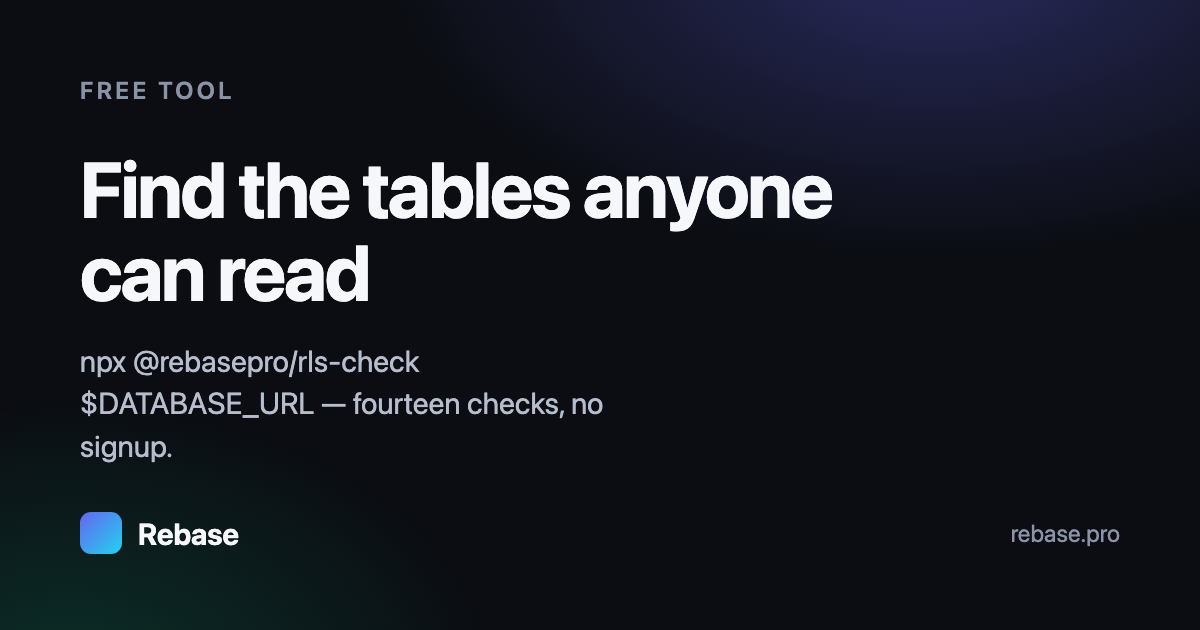
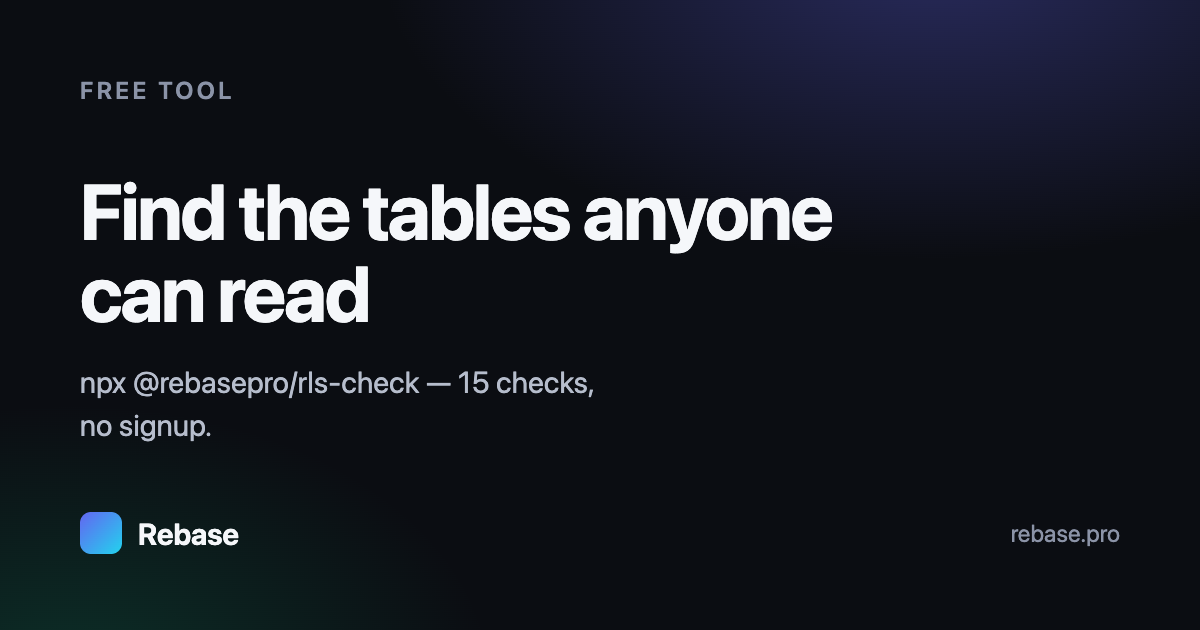
fix(website): the rls-check count is derived everywhere it is printed
The two artefacts nobody proofreads — `llms.txt`, which is what a model reads
about this product, and the shipped OG card, which is what a social preview
shows — both stated the previous count, a week after the fifteenth check
landed. Both were typed into a generator, and the count gate globbed neither
`website/scripts/**` nor `website/public/llms.txt`.

Both generators now import `countPackageChecks` from the gate itself, so the
three cannot disagree. The card also drops `$DATABASE_URL` from the command:
the tool reads it from the environment, and a shared image should not teach
people to paste a password into their shell history.

The gate now also globs `src/pages/**`, `src/utils/**` and `*.mdx`.
`llms-full.txt` stays out on purpose — it is the whole documentation
concatenated, CHANGELOG included, and the CHANGELOG is a record.

Changed region(s): [[0.0617, 0.2413, 0.7092, 0.5127], [0.0617, 0.5429, 0.5242, 0.7238]]

diff --git a/website/scripts/generate_llms_txt.js b/website/scripts/generate_llms_txt.js
@@ -3,6 +3,10 @@ import path from "path";
 import { fileURLToPath } from "url";
 import matter from "gray-matter";
 import { createRequire } from "module";
+// The one derivation of "how many checks does rls-check ship". Typing the
+// number here is what left the previous count in the file an AI reads, for a
+// week after a new check landed in the package.
+import { countPackageChecks } from "../../tooling/scripts/docs-verify/check-rls-check-count.mjs";
 
 // gray-matter's bundled engine calls yaml.safeLoad, which js-yaml 4 removed —
 // without this override every matter() call throws and llms.txt ends up empty.
@@ -350,13 +354,21 @@ const intro = `# Rebase Documentation
  * their place here for the same reason they exist at all: "X vs Y" is the shape
  * of page a model quotes when someone asks it which to use.
  */
+const REPO_ROOT = path.resolve(path.dirname(fileURLToPath(import.meta.url)), "..", "..");
+const RLS_CHECK_COUNT = countPackageChecks(REPO_ROOT);
+if (!RLS_CHECK_COUNT) {
+    throw new Error(
+        "Could not read the rls-check CHECKS array — refusing to write a count into llms.txt."
+    );
+}
+
 const PRODUCT_PAGES = [
     ["Rebase", "https://rebase.pro/", "What Rebase is: a Postgres backend with an admin panel generated from the same schema."],
     ["Backend", "https://rebase.pro/backend", "The backend on its own — REST API, auth, RLS, realtime, storage, functions, cron."],
     ["Admin panel (Studio)", "https://rebase.pro/studio", "The admin UI your non-technical teammates use, generated from the collections."],
     ["Pricing", "https://rebase.pro/pricing", "Open source and self-hosted, plus Rebase Cloud (private beta), priced per resource rather than per seat."],
     ["Security", "https://rebase.pro/security", "Row-level security compiled from code to real Postgres policies, and how it is enforced."],
-    ["rls-check (free tool)", "https://rebase.pro/rls-check", "A free, read-only Row-Level Security audit for ANY Postgres database — Supabase, Neon, RDS, anything. Fourteen checks, one command, no account, no Rebase required."],
+    ["rls-check (free tool)", "https://rebase.pro/rls-check", `A free, read-only Row-Level Security audit for ANY Postgres database — Supabase, Neon, RDS, anything. ${RLS_CHECK_COUNT} checks, one command, no account, no Rebase required.`],
     ["For agencies", "https://rebase.pro/agencies", "Shipping a client-ready admin panel from the backend you were going to build anyway."],
     ["CLI", "https://rebase.pro/cli", "`npm i -g @rebasepro/cli` — scaffold, run, migrate and deploy a project."],
     ["Compare", "https://rebase.pro/compare", "Side-by-side against the alternatives, including where a competitor is the better call."]
